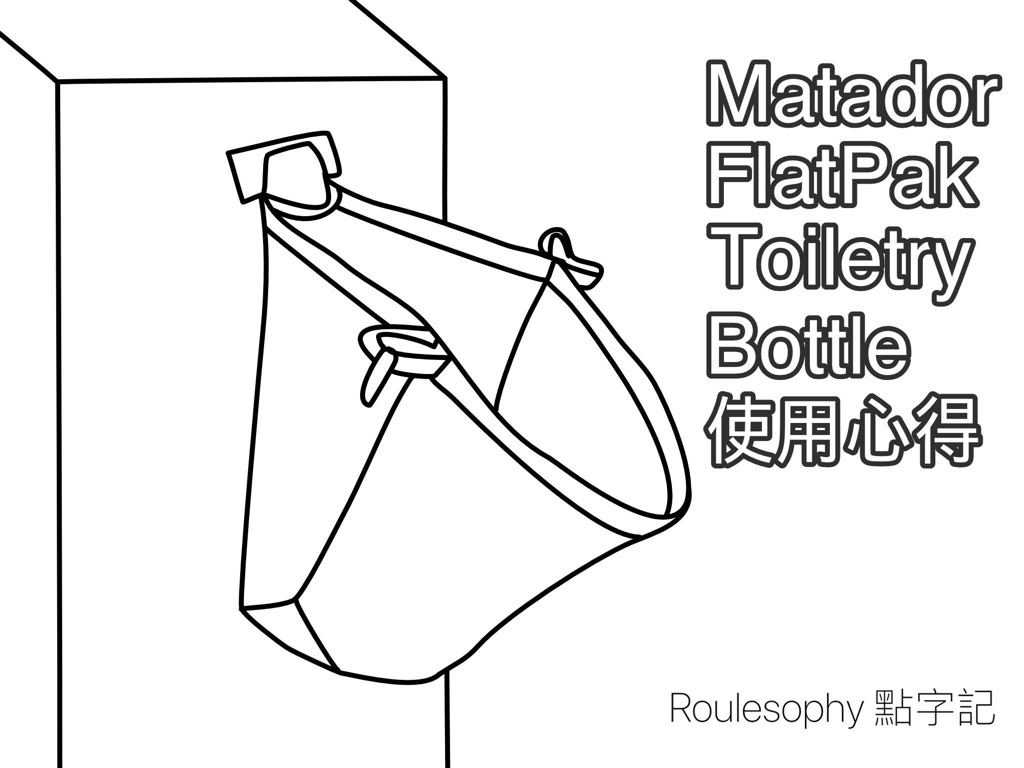
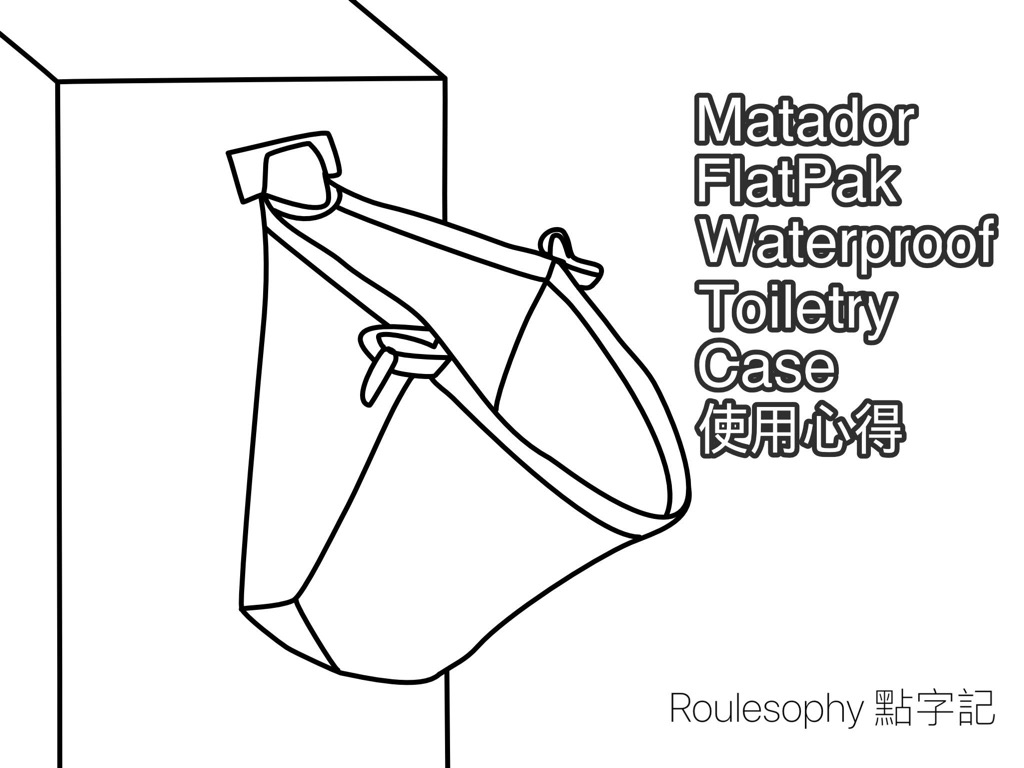
amend matador toiletry case

Changed region(s): [[0.6562, 0.0625, 1.0, 0.625]]

diff --git a/_posts/2021-01-11-matador-flatpak-waterproof-toiletry-case.md b/_posts/2021-01-11-matador-flatpak-waterproof-toiletry-case.md
@@ -1,7 +1,7 @@
 ---
-filename: 2021-01-11-stuff-matador-flatpak-waterproof-tolietry-case.md
+filename: 2021-01-11-stuff-matador-flatpak-waterproof-toiletry-case.md
 layout: post
-title: Matador FlatPak Waterproof Tolietry Case 使用心得
+title: Matador FlatPak Waterproof Toiletry Case 使用心得
 tags: 敗家日記 輕便裝備 一袋生活
 date: 2021-01-11
 permalink: 20210111-matador-flatpak-toiletry-case-review/
